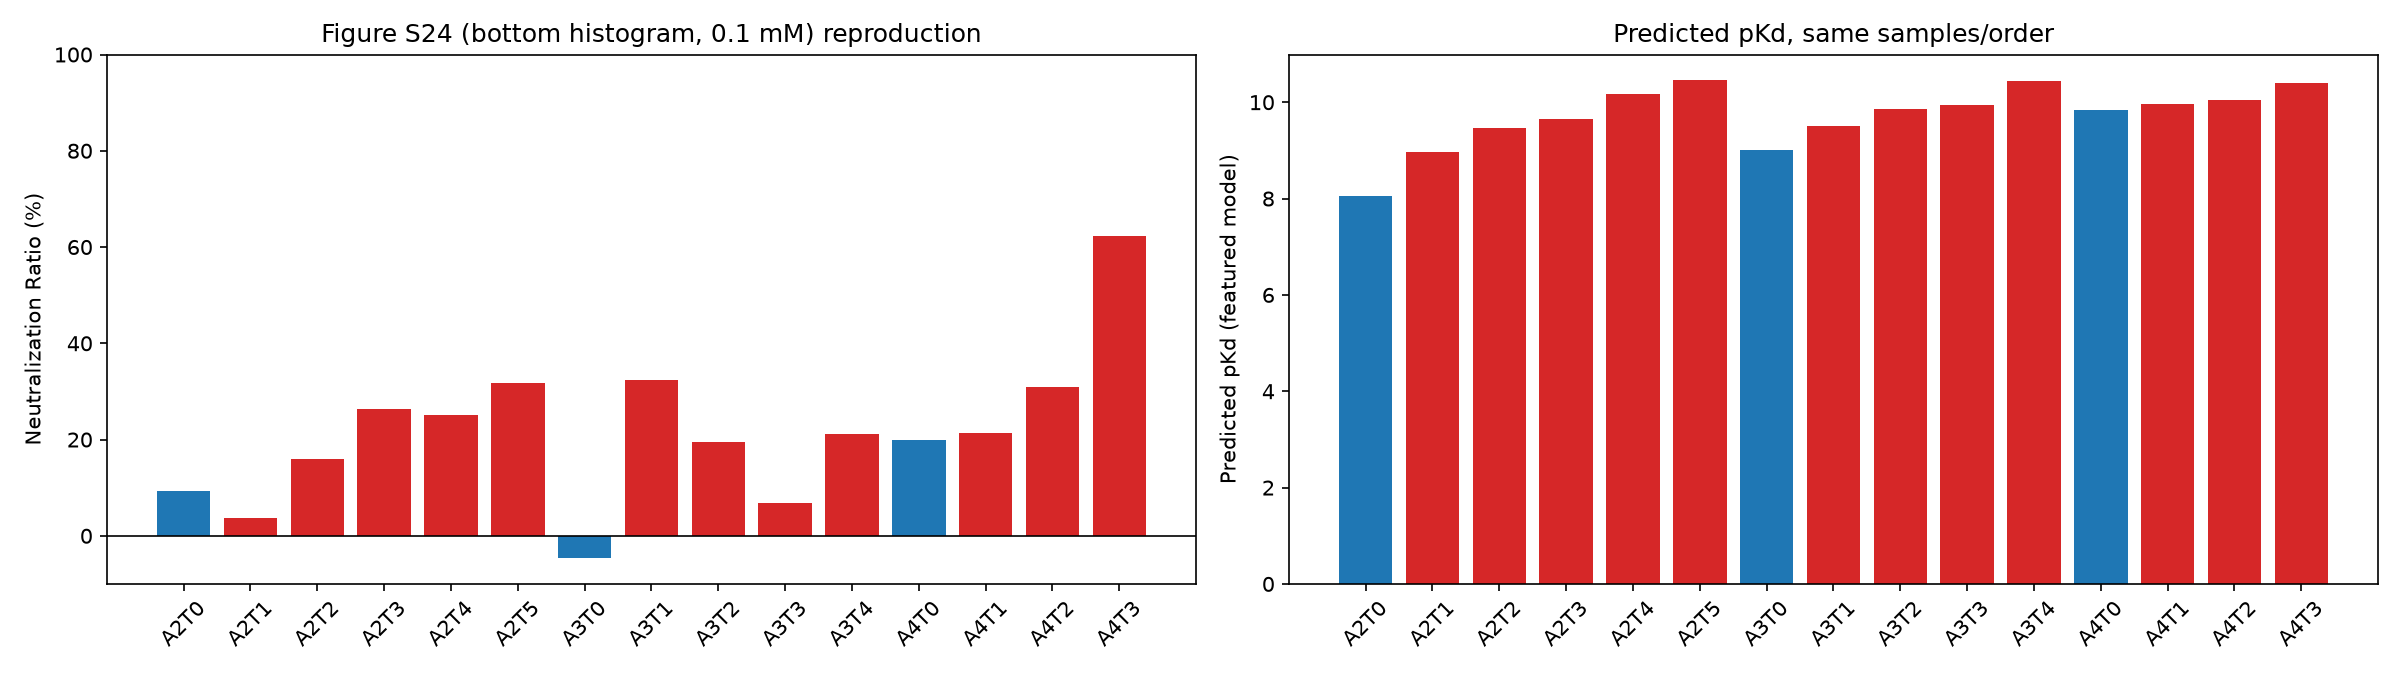
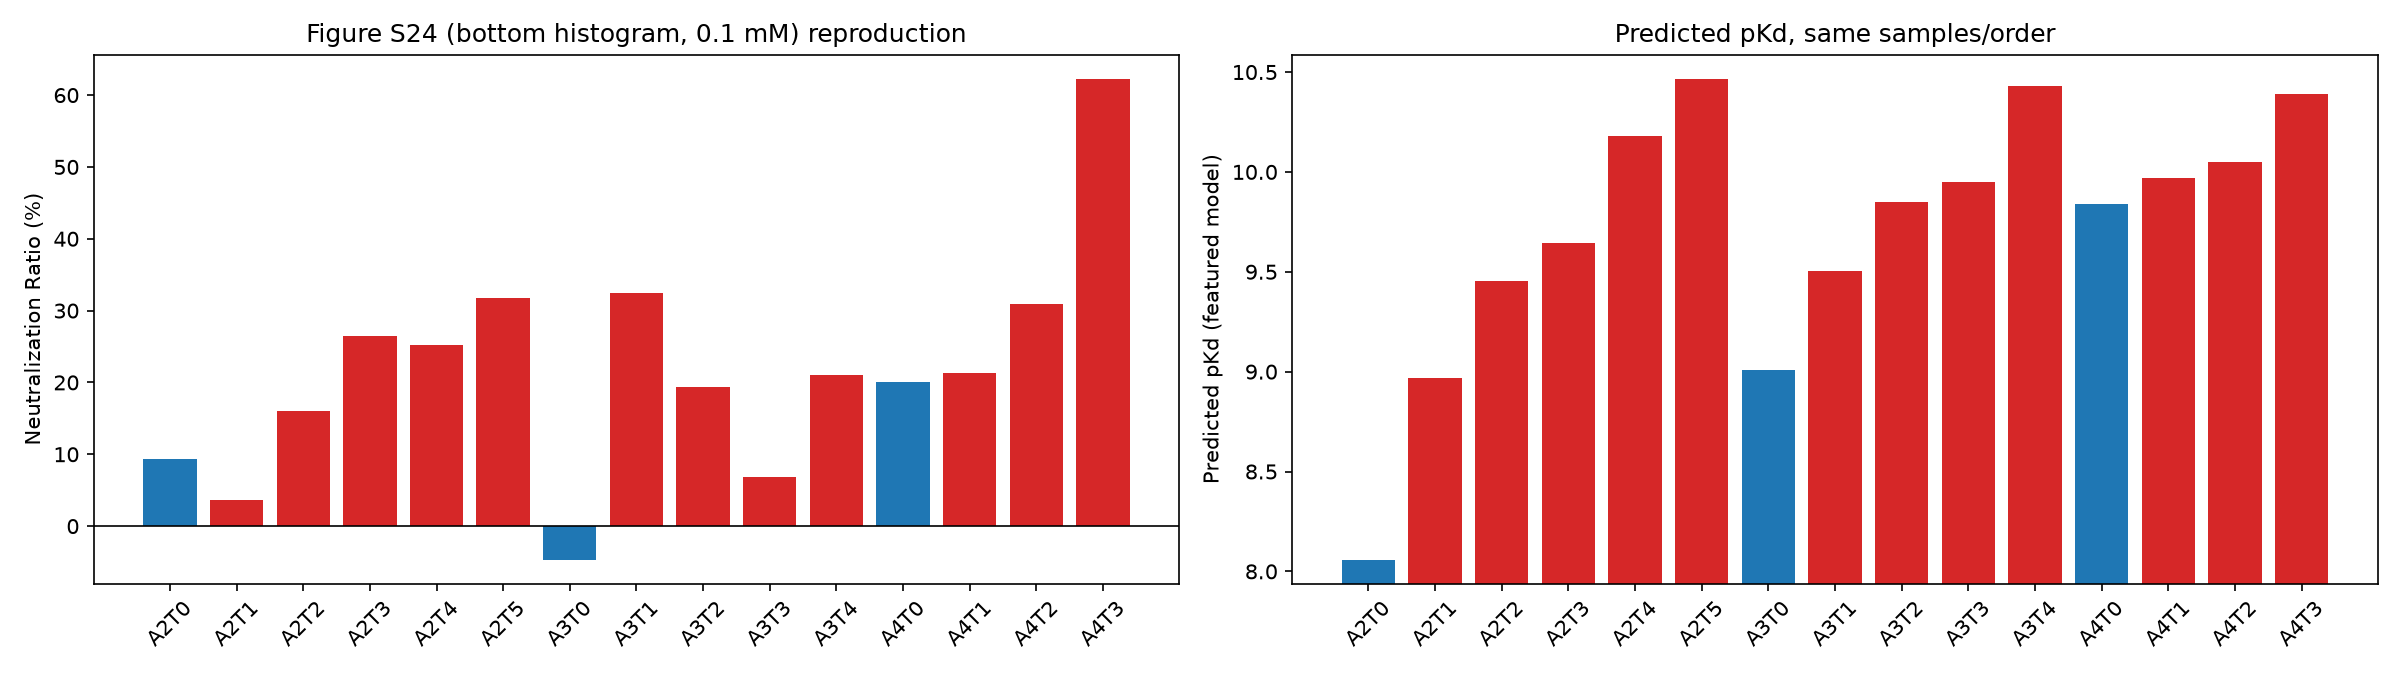
Normalize neutralization/predicted-pKd bar plot y-axes to each panel's own min-max range
Previously used a fixed -10..100 range for the neutralization panel and
matplotlib's default (0-based) range for predicted pKd, which made the
relative differences between samples hard to see. Each panel now zooms to
its own 15-sample min/max (with 5% padding).

diff --git a/scripts/plot_hoshino_figures.py b/scripts/plot_hoshino_figures.py
@@ -42,17 +42,24 @@ df["label"] = "A" + df["n"].astype(str) + "T" + df["m"].astype(str)
 pred_by_label = df.set_index("label")[PRED_COL]
 pred_values = [pred_by_label[label] for label in LABEL_ORDER]
 
+def padded_range(values, frac=0.05):
+    lo, hi = min(values), max(values)
+    pad = (hi - lo) * frac
+    return lo - pad, hi + pad
+
+
 fig, (ax1, ax2) = plt.subplots(1, 2, figsize=(16, 4.5))
 
 ax1.bar(LABEL_ORDER, neut_values, color=colors)
 ax1.set_ylabel("Neutralization Ratio (%)")
-ax1.set_ylim(-10, 100)
+ax1.set_ylim(*padded_range(neut_values))
 ax1.axhline(0, color="black", linewidth=0.8)
 ax1.set_title("Figure S24 (bottom histogram, 0.1 mM) reproduction")
 ax1.tick_params(axis="x", rotation=45)
 
 ax2.bar(LABEL_ORDER, pred_values, color=colors)
 ax2.set_ylabel("Predicted pKd (featured model)")
+ax2.set_ylim(*padded_range(pred_values))
 ax2.set_title("Predicted pKd, same samples/order")
 ax2.tick_params(axis="x", rotation=45)
 
